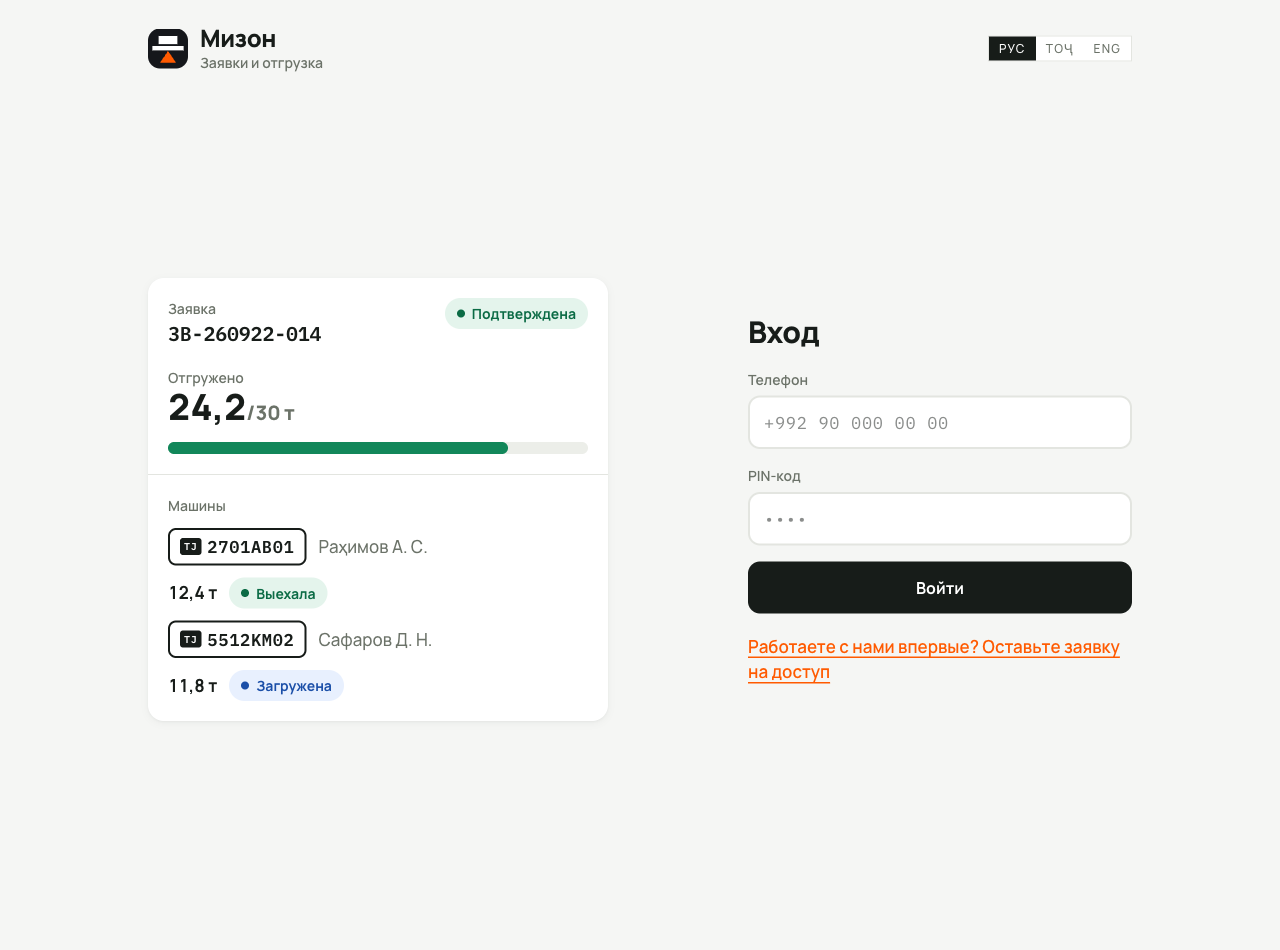
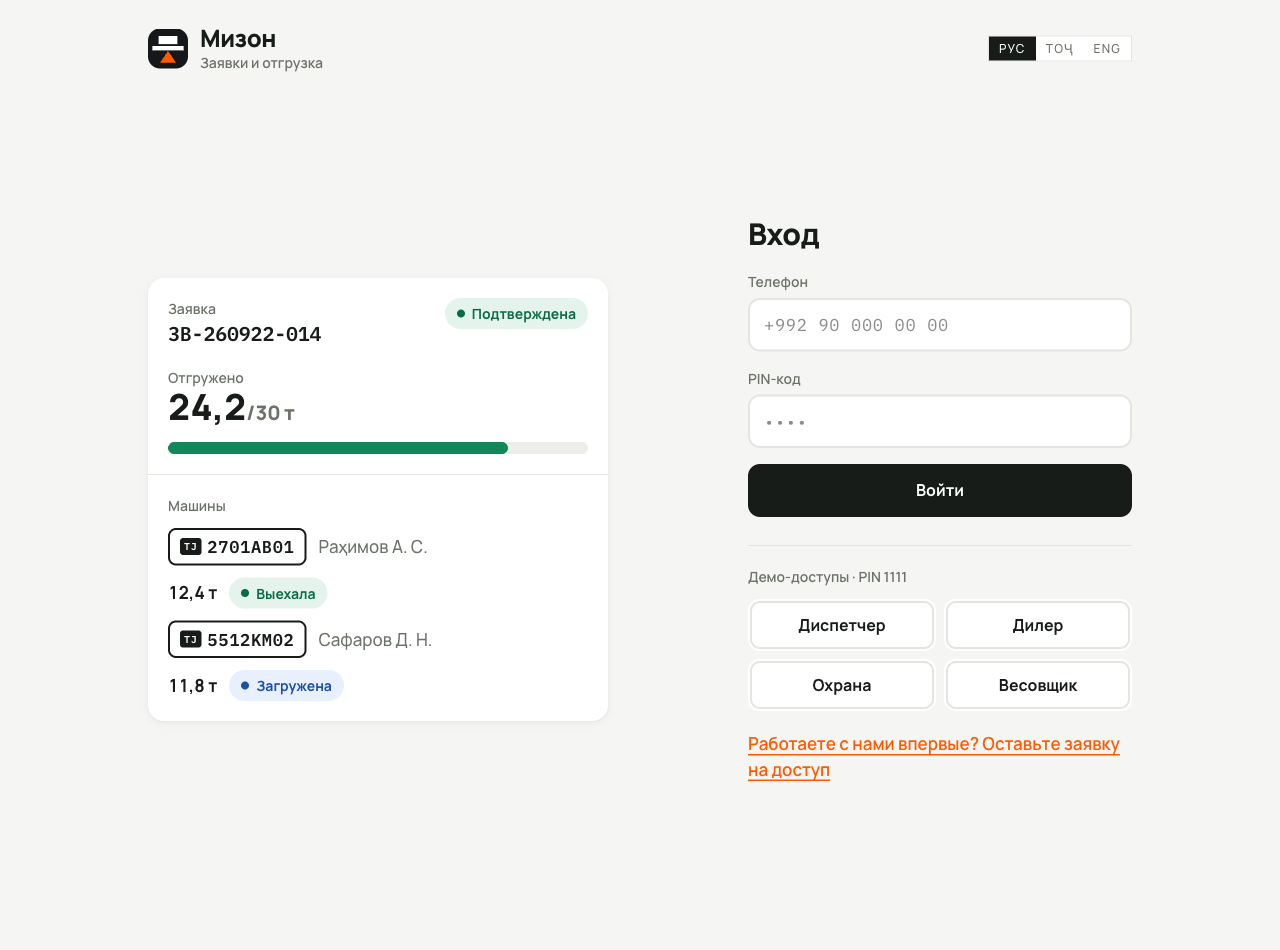
show db url in health output

diff --git a/app/api/health/route.ts b/app/api/health/route.ts
@@ -12,7 +12,9 @@ export async function GET() {
   const token = process.env.TURSO_AUTH_TOKEN?.trim();
 
   const env = {
-    TURSO_DATABASE_URL: url ? `задан, ${url.length} символов, начинается с ${url.slice(0, 8)}…` : "ПУСТО",
+    // Адрес базы не секрет: без токена он бесполезен, а видеть его нужно,
+    // чтобы не гадать, к какой именно базе подключён хостинг.
+    TURSO_DATABASE_URL: url ? `${url} (${url.length} символов)` : "ПУСТО",
     TURSO_AUTH_TOKEN: token ? `задан, ${token.length} символов` : "ПУСТО",
     SESSION_SECRET: process.env.SESSION_SECRET?.trim() ? "задан" : "ПУСТО — сессии на значении по умолчанию",
     runtime: process.env.VERCEL ? "vercel" : "локально",
